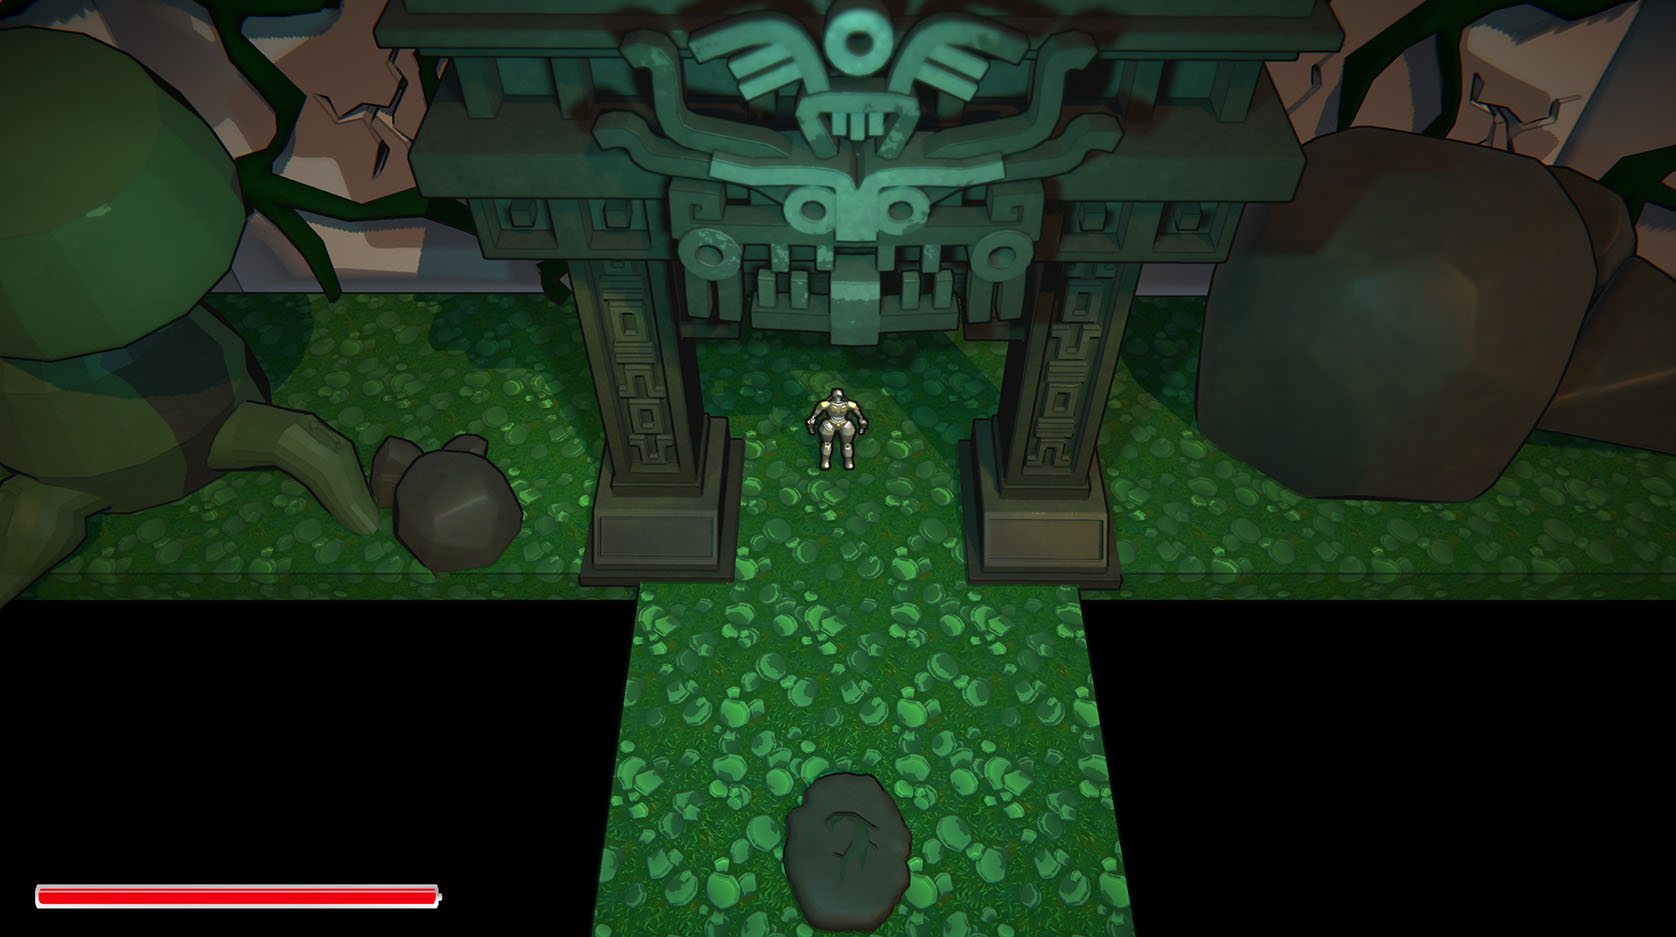
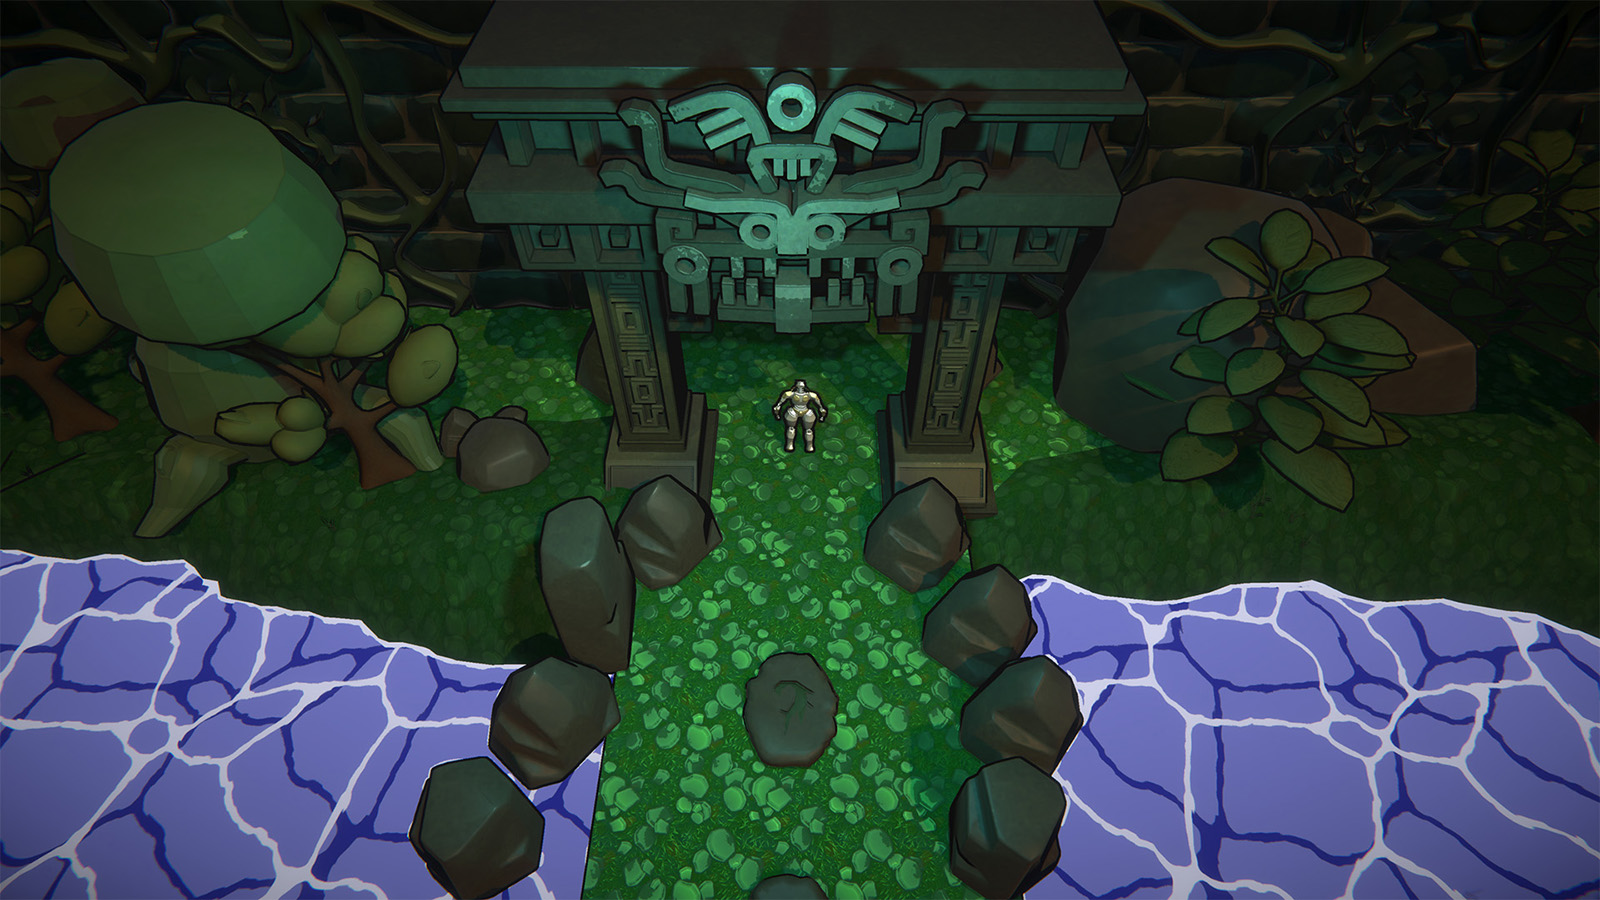
Updated beamdown

diff --git a/src/main/AboutImages.css b/src/main/AboutImages.css
@@ -82,10 +82,10 @@
     }
 
     .image5 {
-        width: 200px;
+        width: 400px;
         z-index: 4;
-        top: calc(340px * var(--scale) + var(--offsetY));
-        left: calc(0px * var(--scale) + var(--offsetX));
+        top: calc(400px * var(--scale) + var(--offsetY));
+        left: calc(-100px * var(--scale) + var(--offsetX));
     }
 }
 

diff --git a/src/main/About.jsx b/src/main/About.jsx
@@ -12,7 +12,7 @@ const projectIDs = [
     'budgetized',
     'stellarWinds',
     'theFlipSide',
-    'pigments',
+    'beamdown',
 ]
 
 function About()
